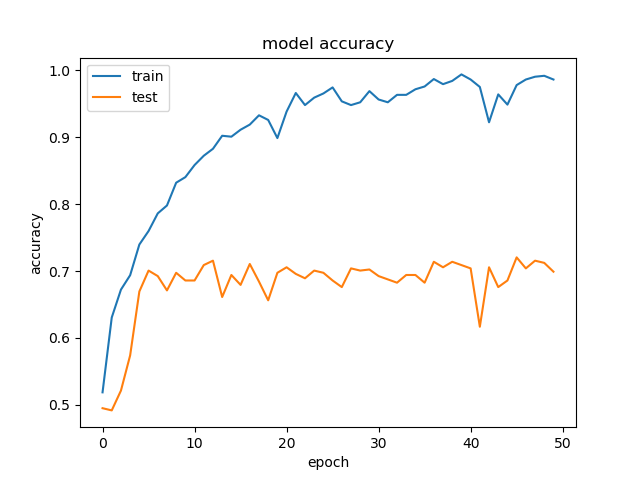
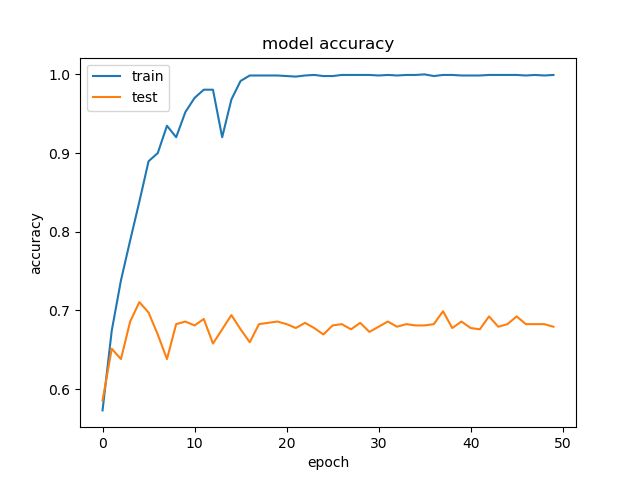
ran DenseNet and got the plots

diff --git a/models/TwoStreamModelAdjusted.py b/models/TwoStreamModelAdjusted.py
@@ -1,0 +1,82 @@
+from keras.models import Sequential, Model
+from keras.layers import Dropout, Convolution2D, MaxPooling2D, Flatten, Dense, Activation
+from keras.layers import Input, Conv2D, BatchNormalization, LeakyReLU, MaxPool2D, Permute, concatenate
+
+
+class TwoStreamModel:
+    img_rows, img_cols, n_channels = 60, 25, 3
+
+    def __init__(self, img_rows, img_cols):
+        self.img_rows = img_rows
+        self.img_cols = img_cols
+
+    def load_inputshape(self):
+        return self.img_rows, self.img_cols, self.n_channels
+
+    def reshape_input_data(self, x_train, x_test):
+        x_train = x_train.reshape(x_train.shape[0], self.img_rows, self.img_cols, self.n_channels)
+        x_test = x_test.reshape(x_test.shape[0], self.img_rows, self.img_cols, self.n_channels)
+        return x_train, x_test
+
+    def load_model(self, classes=5):
+        frame_l, joint_n, joint_d = self.img_rows, self.img_cols, self.n_channels
+        input_joints = Input(name='joints', shape=(frame_l, joint_n, joint_d))
+        input_joints_diff = Input(name='joints_diff', shape=(frame_l, joint_n, joint_d))
+
+        ##########branch 1##############
+        x = Conv2D(filters=64, kernel_size=(1, 1), padding='same')(input_joints)
+        x = BatchNormalization()(x)
+        x = LeakyReLU()(x)
+
+        x = Conv2D(filters=16, kernel_size=(3, 1), padding='same')(x)
+        x = BatchNormalization()(x)
+        x = LeakyReLU()(x)
+
+        x = Permute((1, 3, 2))(x)
+
+        x = Conv2D(filters=16, kernel_size=(3, 3), padding='same')(x)
+        x = BatchNormalization()(x)
+        x = LeakyReLU()(x)
+        ##########branch 1##############
+
+        ##########branch 2##############Temporal difference
+        x_d = Conv2D(filters=32, kernel_size=(1, 1), padding='same')(input_joints_diff)
+        x_d = BatchNormalization()(x_d)
+        x_d = LeakyReLU()(x_d)
+
+        x_d = Conv2D(filters=16, kernel_size=(3, 1), padding='same')(x_d)
+        x_d = BatchNormalization()(x_d)
+        x_d = LeakyReLU()(x_d)
+
+        x_d = Permute((1, 3, 2))(x_d)
+
+        x_d = Conv2D(filters=16, kernel_size=(3, 3), padding='same')(x_d)
+        x_d = BatchNormalization()(x_d)
+        x_d = LeakyReLU()(x_d)
+        ##########branch 2##############
+
+        x = concatenate([x, x_d], axis=-1)
+
+        x = Conv2D(filters=32, kernel_size=(1, 1), padding='same')(x)
+        x = BatchNormalization()(x)
+        x = LeakyReLU()(x)
+        x = MaxPool2D(pool_size=(2, 2))(x)
+        x = Dropout(0.1)(x)
+
+        x = Conv2D(filters=64, kernel_size=(1, 1), padding='same')(x)
+        x = BatchNormalization()(x)
+        x = LeakyReLU()(x)
+        x = MaxPool2D(pool_size=(2, 2))(x)
+        x = Dropout(0.1)(x)
+        x = Flatten()(x)
+        x = Dense(64, activation="relu")(x)
+        x = Dense(classes, activation="softmax")(x)
+
+        model = Model([input_joints, input_joints_diff], x)
+        #model = Model([input_joints], x)
+        model.compile(loss="categorical_crossentropy", optimizer="adam", metrics=["accuracy"])
+        return model
+
+
+
+

diff --git a/utils/plot_utils.py b/utils/plot_utils.py
@@ -55,7 +55,7 @@ def plot_model_history_and_save(history, h_path):
     plt.ylabel('accuracy')
     plt.xlabel('epoch')
     plt.legend(['train', 'test'], loc='upper left')
-    plt.savefig(os.path.join(h_path, "model_accuracy.png"))
+    plt.savefig(os.path.join(h_path, "TwoStreamNet_modelAccuracy.png"))
     plt.clf()
     # summarize history for loss
     plt.plot(history.history['loss'])

diff --git a/train.py b/train.py
@@ -33,7 +33,7 @@ test = True
 if test:
     # fake user input
     args.train_images = r"./data/train/"
-    args.model = "DenseNet"
+    args.model = "AlexNet"
     args.epochs = 50
     args.useAllJoints = 1
     args.dataset = "all"

diff --git a/doc/doc.md b/doc/doc.md
@@ -205,7 +205,7 @@ Non-trainable params: 448
 __________________________________________________________________________________________________
 |                                                                                    |                                                                                  | 
 |------------------------------------------------------------------------------------|----------------------------------------------------------------------------------|
-|![Abbildung 6: Model Accuracy SimpleCNNet](./images/TwoStreamNet_modelAccuracy.png) | ![Abbildung 7: Model Accuracy SimpleCNNet](./images/TwoStreamCNNet_modelLoss.png)|
+|![Abbildung 6: Model Accuracy SimpleCNNet](./images/TwoStreamNet_modelAccuracy.png) | ![Abbildung 7: Model Accuracy SimpleCNNet](./images/TwoStreamNet_modelLoss.png)|
 
 ## NeuralNet
 
@@ -232,10 +232,10 @@ _________________________________________________________________
 | Model         | Accuracy (in %)   |
 |---------------|:-----------------:|
 | AlexNet       |                   |
-| DenseNet      |                   |
+| DenseNet      | 70.72             |
 | SimpleCNNet   | 67.92             |
-| TwoStreamNet  |                   |
-| NNet          |                   |  
+| TwoStreamNet  | 69.73             |
+| NNet          | 62.66             |  
 # Nutzung des Projektes
 
 Trainiere das Model anhand der gegebenen Bilddaten mit (60, 25, 3) als Shape.
